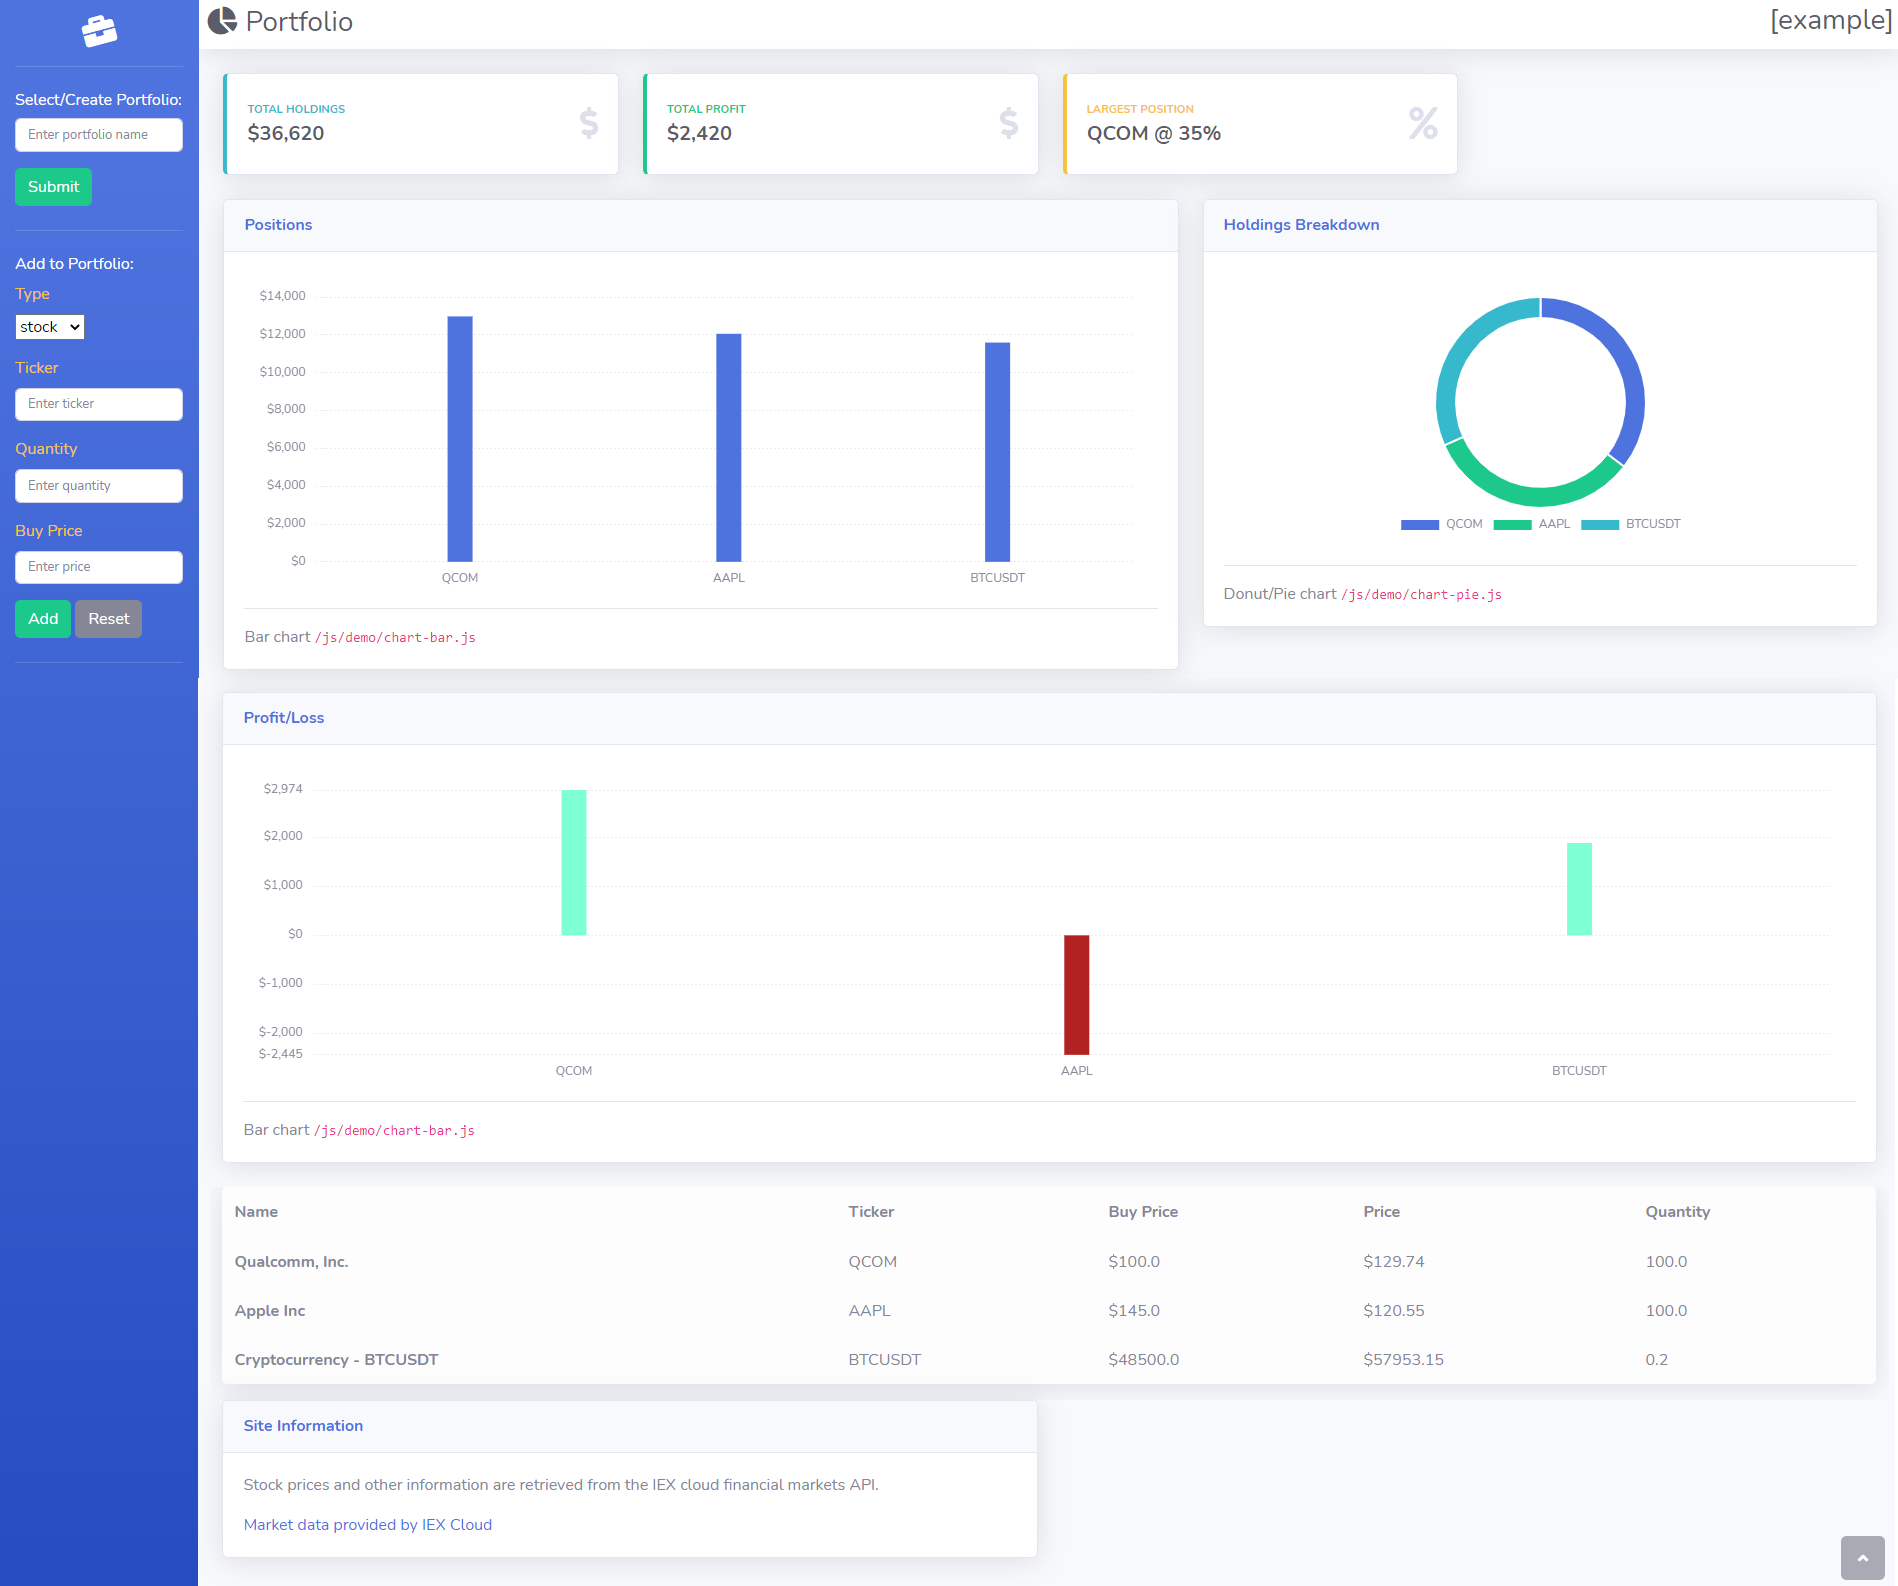
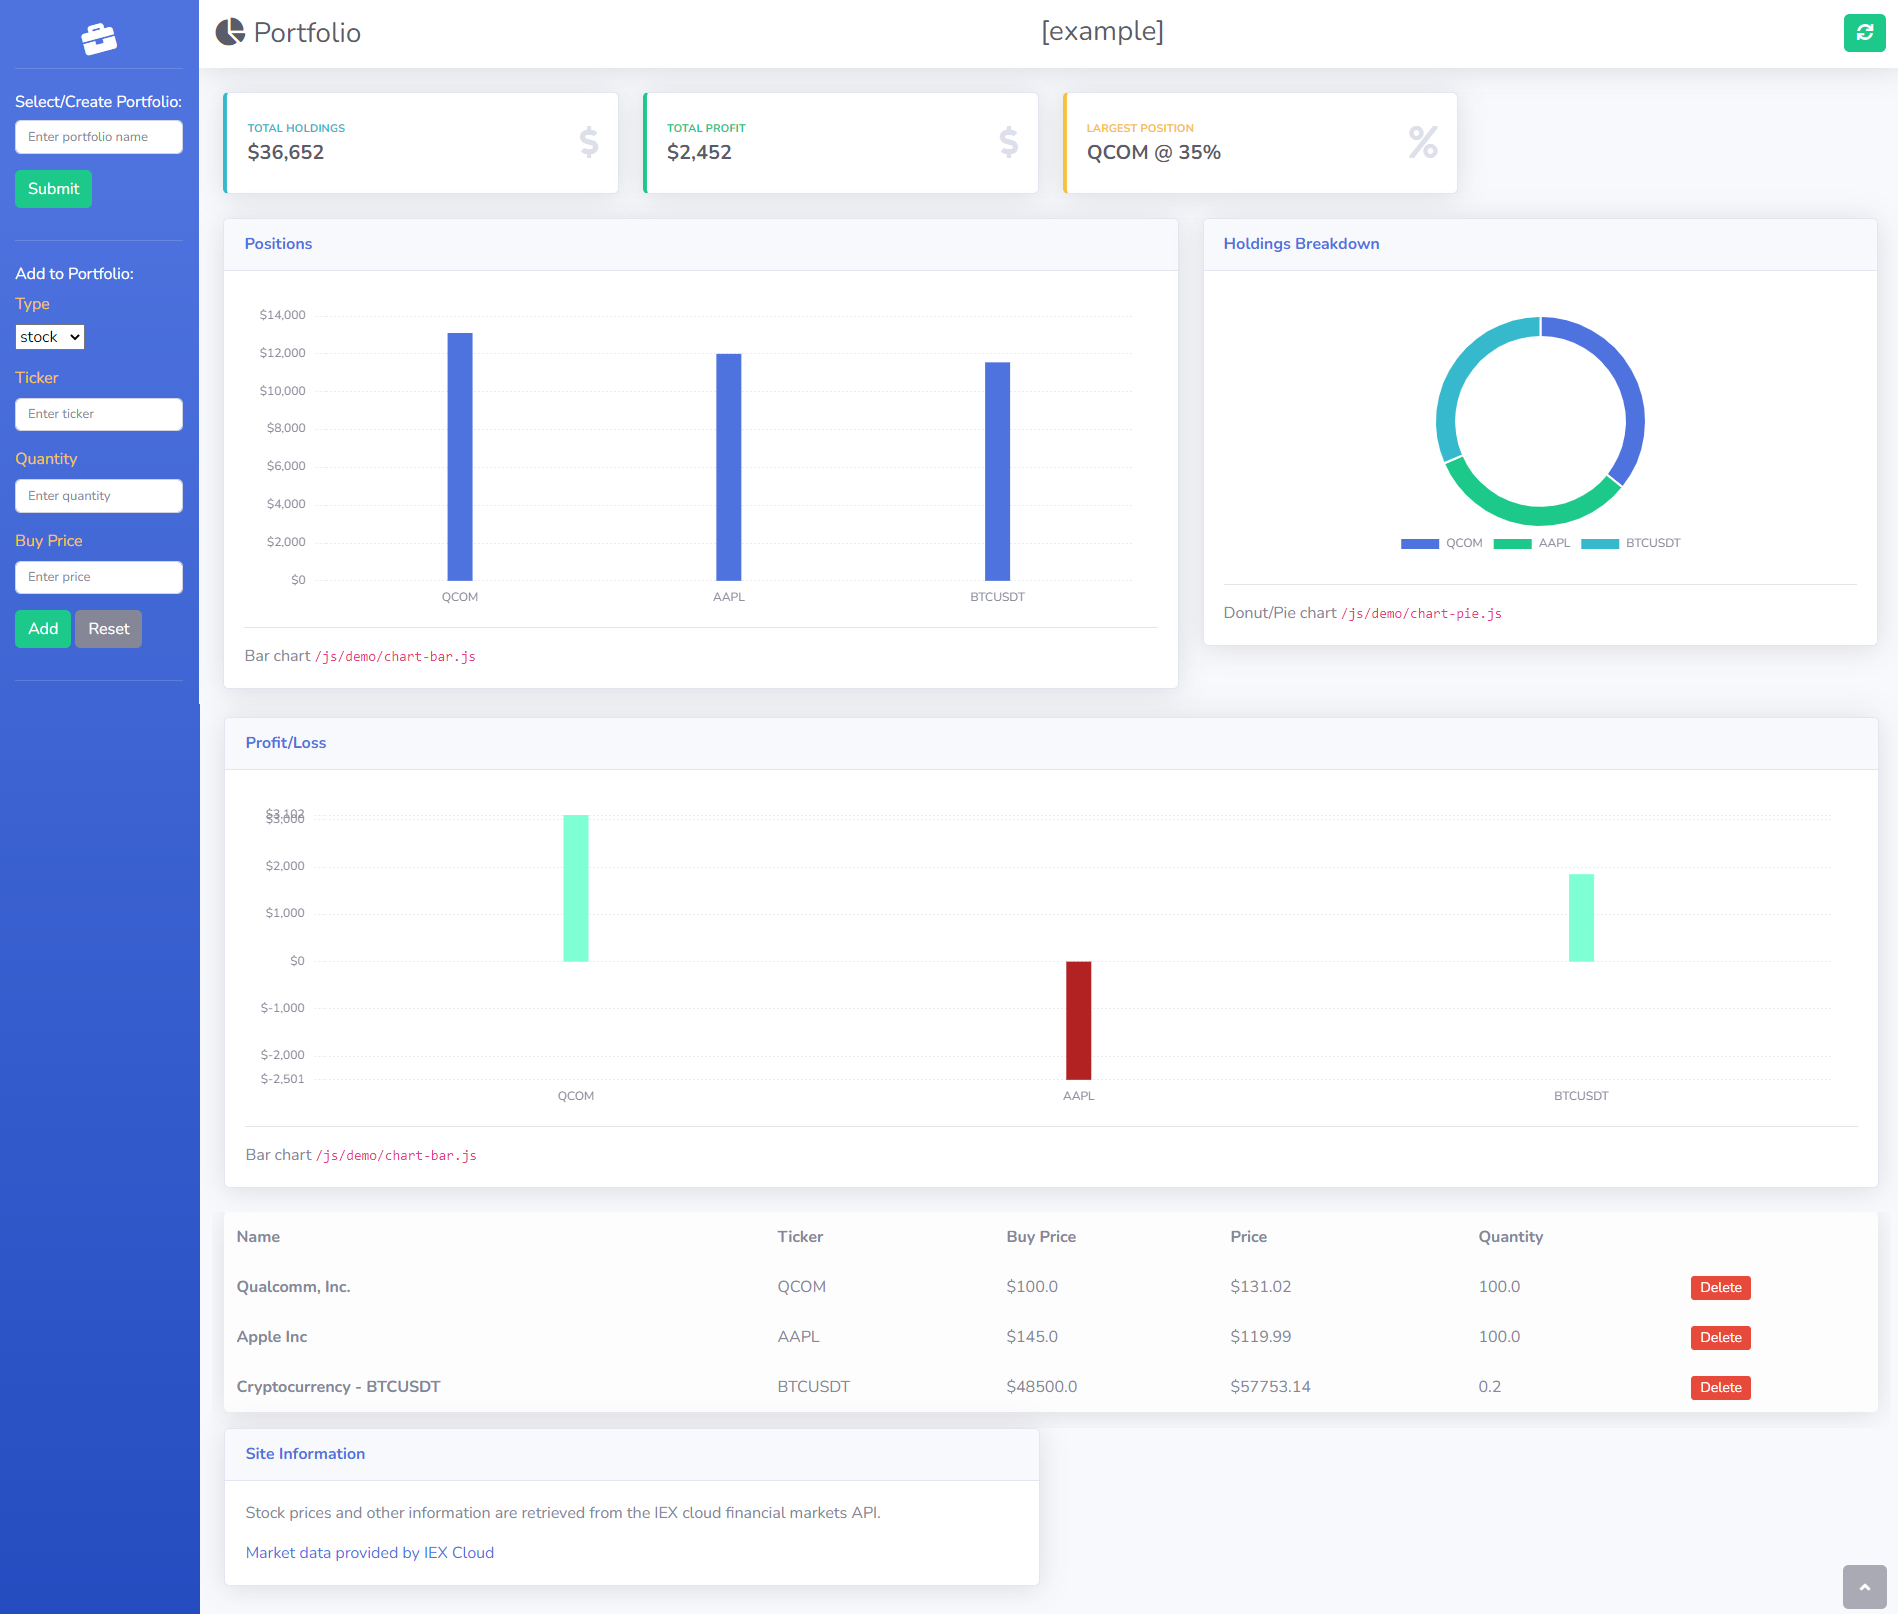
update dashboard screenshot

diff --git a/README.md b/README.md
@@ -12,7 +12,7 @@
 > https://briefcase-app.herokuapp.com/api/v1/portfolio?name=example  
 > (allow some time for loading)
 
-![dashboard](dashboard.png)
+![dashboard](dashboard3.png)
 
 
 ## Application Features
